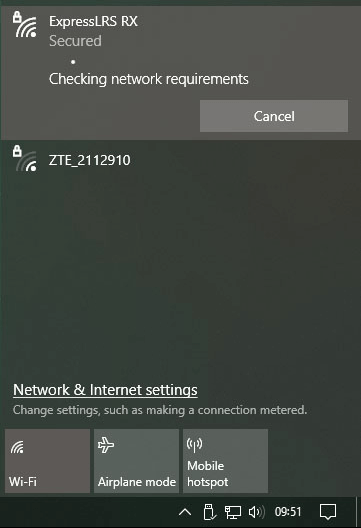
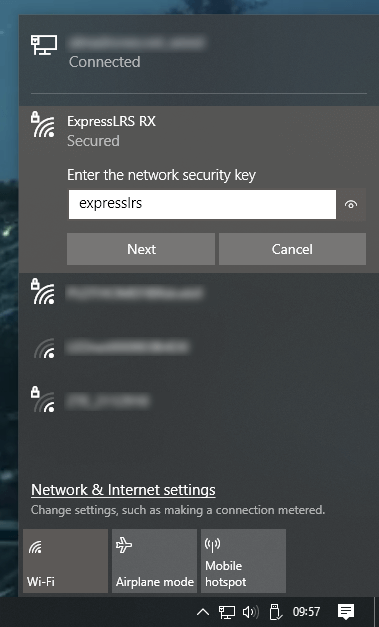
WiFi Hotspot Image update, admonition font size increased

diff --git a/docs/assets/stylesheets/main.css b/docs/assets/stylesheets/main.css
@@ -103,3 +103,8 @@
 .red-x {
   color: #ff0000
 }
+
+/* increase admonition font size */
+.admonition {
+  font-size: 0.75rem!important; /* default's 0.64rem */
+}

diff --git a/docs/software/updating/wifi-updating.md b/docs/software/updating/wifi-updating.md
@@ -12,8 +12,18 @@ template: main.html
 
 Put your device in WiFi Updating mode. For TX modules, this is accomplished using the ExpressLRS Lua Script. Simply select `WiFi Update` from the script and it should start the Update Hotspot. For receivers, power the receiver and wait until `AUTO_WIFI_ON_INTERVAL` time has elapsed and that the LED on the receiver is blinking fast.
 
-Connect to the hotspot that the device has created. For Tx modules, this hotspot should show up as **ExpressLRS TX Module** while for receivers, the hotspot will have a name such as **ExpressLRS RX**. They have the same password: `expresslrs`. 
-*Note: The receivers, due to their respective sizes, doesn't have robust WiFi antennas and you will have to bring them closer to the device you're connecting from. The window that opens can easily be closed.*
+Connect to the hotspot that the device has created. For Tx modules, this hotspot should show up as **ExpressLRS TX** while for receivers, the hotspot will have a name such as **ExpressLRS RX**. They have the same password: `expresslrs`. 
+
+!!! Note
+    The receivers, due to their respective sizes, doesn't have robust WiFi antennas and you will have to bring them closer to the device you're connecting from. The window that opens can easily be closed.*
+
+<figure markdown>
+![ExpressLRS RX Hotspot](../../assets/images/WifiHotspot.png)
+</figure>
+
+<figure markdown>
+![ExpressLRS TX Hotspot](../../assets/images/WifiHotspotTX.png)
+</figure>
 
 Navigate your browser to `http://10.0.0.1/` and the WiFi Update Page should show up.
 

diff --git a/docs/quick-start/transmitters/rm-internal.md b/docs/quick-start/transmitters/rm-internal.md
@@ -73,9 +73,13 @@ Execute the ExpressLRS lua script by pressing "System Menu" in your radio and th
 
 ![Lua Script](../../assets/images/lua1.jpg)
 
-Select **WiFi Connectivity** from the Lua script and then select **Enable WiFi**. Press OK once more to activate the WiFi on the Tx Module. Connect to the Access Point the module will create called `ExpressLRS TX Module`, with the password being `expresslrs`.
+Select **WiFi Connectivity** from the Lua script and then select **Enable WiFi**. Press OK once more to activate the WiFi on the Tx Module. Connect to the Access Point the module will create called `ExpressLRS TX`, with the password being `expresslrs`.
 
 ![Lua3](../../assets/images/lua/wifi-bw.png)
+
+<figure markdown>
+![WiFi Hotspot](../../assets/images/WifiHotspotTX.png)
+</figure>
 
 Using your browser, navigate to the correct page (typically http://10.0.0.1/) and it should show an upload form (you will have to scroll down a bit). You can drag-and-drop the `RadioMaster_Zorro_2400_TX-<version>.bin` or `RadioMaster_TX16S_2400_TX-<version>.bin` file that the ExpressLRS Configurator created. You can also click the `Choose File` button and navigate to the folder where the firmware was created. Ensure that you have selected the correct firmware file and click `Update`.
 

diff --git a/docs/quick-start/transmitters/betfpvlr3pro.md b/docs/quick-start/transmitters/betfpvlr3pro.md
@@ -68,9 +68,13 @@ Execute the ExpressLRS lua script by pressing "System Menu" in your radio and th
 
 ![Lua Script](../../assets/images/lua1.jpg)
 
-Select **WiFi Connectivity** from the Lua script and then select **Enable WiFi**. Press OK once more to activate the WiFi on the Tx Module. Connect to the Access Point the module will create called `ExpressLRS TX Module`, with the password being `expresslrs`.
+Select **WiFi Connectivity** from the Lua script and then select **Enable WiFi**. Press OK once more to activate the WiFi on the Tx Module. Connect to the Access Point the module will create called `ExpressLRS TX`, with the password being `expresslrs`.
 
 ![Lua3](../../assets/images/lua/wifi-bw.png)
+
+<figure markdown>
+![WiFi Hotspot](../../assets/images/WifiHotspotTX.png)
+</figure>
 
 Using your browser, navigate to the correct page (typically http://10.0.0.1/) and it should show an upload form (you will have to scroll down a bit). You can drag-and-drop the `BETAFPV_2400_TX_LITERADIO3-<version>.bin` file that the ExpressLRS Configurator created. You can also click the `Choose File` button and navigate to the folder where the firmware was created. Ensure that you have selected the correct firmware file and click `Update`.
 

diff --git a/docs/quick-start/transmitters/aion-internal.md b/docs/quick-start/transmitters/aion-internal.md
@@ -26,9 +26,13 @@ The next steps will require the [ExpressLRS Lua Script](https://github.com/Expre
 
 ![Lua Script](../../assets/images/lua1.jpg)
 
-Select **WiFi Connectivity** from the Lua script and then select **Enable WiFi**. Press OK once more to activate the WiFi on the Tx Module. Connect to the Access Point the module will create called `ExpressLRS TX Module`, with the password being `expresslrs`.
+Select **WiFi Connectivity** from the Lua script and then select **Enable WiFi**. Press OK once more to activate the WiFi on the Tx Module. Connect to the Access Point the module will create called `ExpressLRS TX`, with the password being `expresslrs`.
 
 ![Lua3](../../assets/images/lua/wifi-bw.png)
+
+<figure markdown>
+![WiFi Hotspot](../../assets/images/WifiHotspotTX.png)
+</figure>
 
 Using your browser, navigate to the correct page (typically http://10.0.0.1/) and it should show an upload form (you will have to scroll down a bit). You can drag-and-drop the `Jumper_AION_T-Pro_2400_TX-<version>.bin` file that the ExpressLRS Configurator created. You can also click the `Choose File` button and navigate to the folder where the firmware was created. Ensure that you have selected the correct firmware file and click `Update`.
 

diff --git a/docs/quick-start/transmitters/es24tx.md b/docs/quick-start/transmitters/es24tx.md
@@ -44,7 +44,11 @@ If the script is stuck at `Loading...`, then there's a chance your module is sti
 
 ![Lua3](../../assets/images/lua3.jpg)
 
-Select **WiFi Connectivity** from the Lua script and then select **Enable WiFi**. Press OK once more to activate the WiFi on the Tx Module. Connect to the Access Point the module will create called `ExpressLRS TX Module`, with the password being `expresslrs`.
+Select **WiFi Connectivity** from the Lua script and then select **Enable WiFi**. Press OK once more to activate the WiFi on the Tx Module. Connect to the Access Point the module will create called `ExpressLRS TX`, with the password being `expresslrs`.
+
+<figure markdown>
+![WiFi Hotspot](../../assets/images/WifiHotspotTX.png)
+</figure>
 
 Using your browser, navigate to the correct page (typically http://10.0.0.1/) and it should show an upload form (you will have to scroll down a bit). You can drag-and-drop the `HappyModel_ES24TX_2400_TX-<version>.bin` or `HM_ES24TX_Pro_Series_2400_TX-<version>.bin` file that the ExpressLRS Configurator created. You can also click the `Choose File` button and navigate to the folder where the firmware was created. Ensure that you have selected the correct firmware file and click `Update`.
 

diff --git a/docs/quick-start/transmitters/betafpv2400.md b/docs/quick-start/transmitters/betafpv2400.md
@@ -42,7 +42,11 @@ If the script is stuck at `Loading...`, then there's a chance your module is sti
 
 ![Lua3](../../assets/images/lua3.jpg)
 
-Select **WiFi Connectivity** from the Lua script and then select **Enable WiFi**. Press OK once more to activate the WiFi on the Tx Module. Connect to the Access Point the module will create called `ExpressLRS TX Module`, with the password being `expresslrs`.
+Select **WiFi Connectivity** from the Lua script and then select **Enable WiFi**. Press OK once more to activate the WiFi on the Tx Module. Connect to the Access Point the module will create called `ExpressLRS TX`, with the password being `expresslrs`.
+
+<figure markdown>
+![WiFi Hotspot](../../assets/images/WifiHotspotTX.png)
+</figure>
 
 Using your browser, navigate to the correct page (typically http://10.0.0.1/) and it should show an upload form (you will have to scroll down a bit). You can drag-and-drop the `BETAFPV_2400_TX-<version>.bin` or `BETAFPV_2400_TX_MICRO-<version>.bin` file that the ExpressLRS Configurator created. You can also click the `Choose File` button and navigate to the folder where the firmware was created. Ensure that you have selected the correct firmware file and click `Update`.
 

diff --git a/docs/quick-start/transmitters/betafpv900.md b/docs/quick-start/transmitters/betafpv900.md
@@ -40,7 +40,11 @@ If the script is stuck at `Loading...`, then there's a chance your module is sti
 
 ![Lua3](../../assets/images/lua3.jpg)
 
-Select **WiFi Connectivity** from the Lua script and then select **Enable WiFi**. Press OK once more to activate the WiFi on the Tx Module. Connect to the Access Point the module will create called `ExpressLRS TX Module`, with the password being `expresslrs`.
+Select **WiFi Connectivity** from the Lua script and then select **Enable WiFi**. Press OK once more to activate the WiFi on the Tx Module. Connect to the Access Point the module will create called `ExpressLRS TX`, with the password being `expresslrs`.
+
+<figure markdown>
+![WiFi Hotspot](../../assets/images/WifiHotspotTX.png)
+</figure>
 
 Using your browser, navigate to the correct page (typically http://10.0.0.1/) and it should show an upload form (you will have to scroll down a bit). You can drag-and-drop the `BETAFPV_900_TX-<version>.bin` or `BETAFPV_900_TX_MICRO-<version>.bin` file that the ExpressLRS Configurator created. You can also click the `Choose File` button and navigate to the folder where the firmware was created. Ensure that you have selected the correct firmware file and click `Update`.
 

diff --git a/docs/quick-start/transmitters/iflight-commando.md b/docs/quick-start/transmitters/iflight-commando.md
@@ -45,7 +45,11 @@ If the script is stuck at `Loading...`, then there's a chance your Radio Externa
 
 ![Lua3](../../assets/images/lua3.jpg)
 
-Select **WiFi Connectivity** from the Lua script and then select **Enable WiFi**. Press OK once more to activate the WiFi on the Tx Module. Connect to the Access Point the module will create called `ExpressLRS TX Module`, with the password being `expresslrs`.
+Select **WiFi Connectivity** from the Lua script and then select **Enable WiFi**. Press OK once more to activate the WiFi on the Tx Module. Connect to the Access Point the module will create called `ExpressLRS TX`, with the password being `expresslrs`.
+
+<figure markdown>
+![WiFi Hotspot](../../assets/images/WifiHotspotTX.png)
+</figure>
 
 Using your browser, navigate to the correct page (typically http://10.0.0.1/) and it should show an upload form (you will have to scroll down a bit). You can drag-and-drop the `iFlight_2400_TX-<version>.bin` or `iFlight_900_TX-<version>.bin` file that the ExpressLRS Configurator created. You can also click the `Choose File` button and navigate to the folder where the firmware was created. Ensure that you have selected the correct firmware file and click `Update`.
 

diff --git a/docs/quick-start/transmitters/flash2400.md b/docs/quick-start/transmitters/flash2400.md
@@ -35,7 +35,11 @@ If the script is stuck at `Loading...`, then there's a chance your module is sti
 
 ![Lua3](../../assets/images/lua3.jpg)
 
-Select **WiFi Connectivity** from the Lua script and then select **Enable WiFi**. Press OK once more to activate the WiFi on the Tx Module. Connect to the Access Point the module will create called `ExpressLRS TX Module`, with the password being `expresslrs`.
+Select **WiFi Connectivity** from the Lua script and then select **Enable WiFi**. Press OK once more to activate the WiFi on the Tx Module. Connect to the Access Point the module will create called `ExpressLRS TX`, with the password being `expresslrs`.
+
+<figure markdown>
+![WiFi Hotspot](../../assets/images/WifiHotspotTX.png)
+</figure>
 
 Using your browser, navigate to the correct page (typically http://10.0.0.1/) and it should show an upload form (you will have to scroll down a bit). You can drag-and-drop the `NamimnoRC_FLASH_2400_OLED_TX-<version>.bin` file that the ExpressLRS Configurator created. You can also click the `Choose File` button and navigate to the folder where the firmware was created. Ensure that you have selected the correct firmware file and click `Update`.
 

diff --git a/docs/quick-start/transmitters/jumper-aion.md b/docs/quick-start/transmitters/jumper-aion.md
@@ -31,7 +31,11 @@ If the script is stuck at `Loading...`, then there's a chance your Radio Externa
 
 ![Lua3](../../assets/images/lua3.jpg)
 
-Select **WiFi Connectivity** from the Lua script and then select **Enable WiFi**. Press OK once more to activate the WiFi on the Tx Module. Connect to the Access Point the module will create called `ExpressLRS TX Module`, with the password being `expresslrs`.
+Select **WiFi Connectivity** from the Lua script and then select **Enable WiFi**. Press OK once more to activate the WiFi on the Tx Module. Connect to the Access Point the module will create called `ExpressLRS TX`, with the password being `expresslrs`.
+
+<figure markdown>
+![WiFi Hotspot](../../assets/images/WifiHotspotTX.png)
+</figure>
 
 Using your browser, navigate to the correct page (typically http://10.0.0.1/) and it should show an upload form (you will have to scroll down a bit). You can drag-and-drop the `Jumper_AION_Nano_2400_TX-<version>.bin` file that the ExpressLRS Configurator created. You can also click the `Choose File` button and navigate to the folder where the firmware was created. Ensure that you have selected the correct firmware file and click `Update`.
 

diff --git a/docs/quick-start/transmitters/es900tx.md b/docs/quick-start/transmitters/es900tx.md
@@ -34,7 +34,11 @@ If the script is stuck at `Loading...`, then there's a chance your module is sti
 
 ![Lua3](../../assets/images/lua3.jpg)
 
-Select **WiFi Connectivity** from the Lua script and then select **Enable WiFi**. Press OK once more to activate the WiFi on the Tx Module. Connect to the Access Point the module will create called `ExpressLRS TX Module`, with the password being `expresslrs`.
+Select **WiFi Connectivity** from the Lua script and then select **Enable WiFi**. Press OK once more to activate the WiFi on the Tx Module. Connect to the Access Point the module will create called `ExpressLRS TX`, with the password being `expresslrs`.
+
+<figure markdown>
+![WiFi Hotspot](../../assets/images/WifiHotspotTX.png)
+</figure>
 
 Using your browser, navigate to the correct page (typically http://10.0.0.1/) and it should show an upload form (you will have to scroll down a bit). You can drag-and-drop the `HappyModel_TX_ES900TX-<version>.bin` file that the ExpressLRS Configurator created. You can also click the `Choose File` button and navigate to the folder where the firmware was created. Ensure that you have selected the correct firmware file and click `Update`.
 
